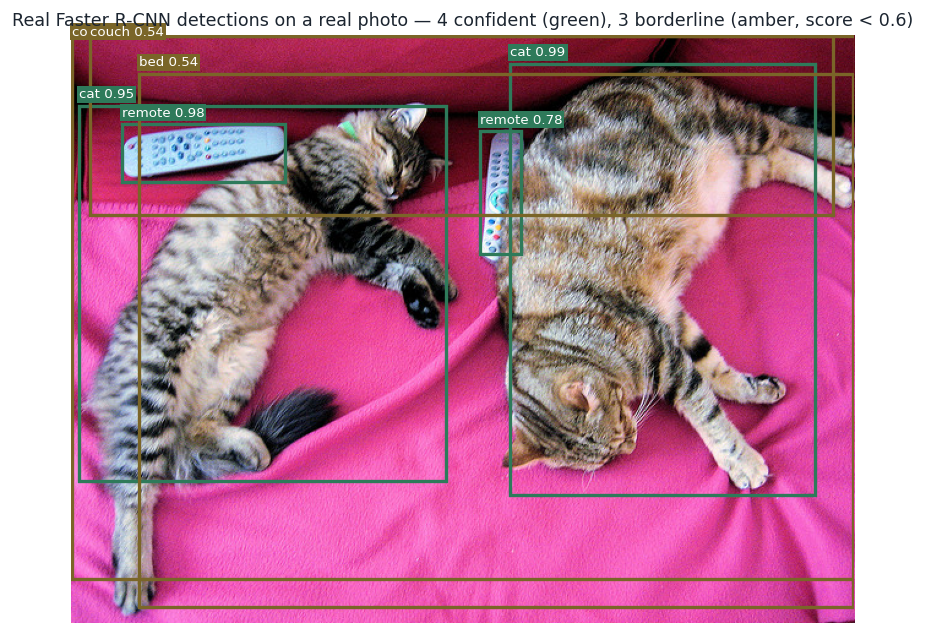
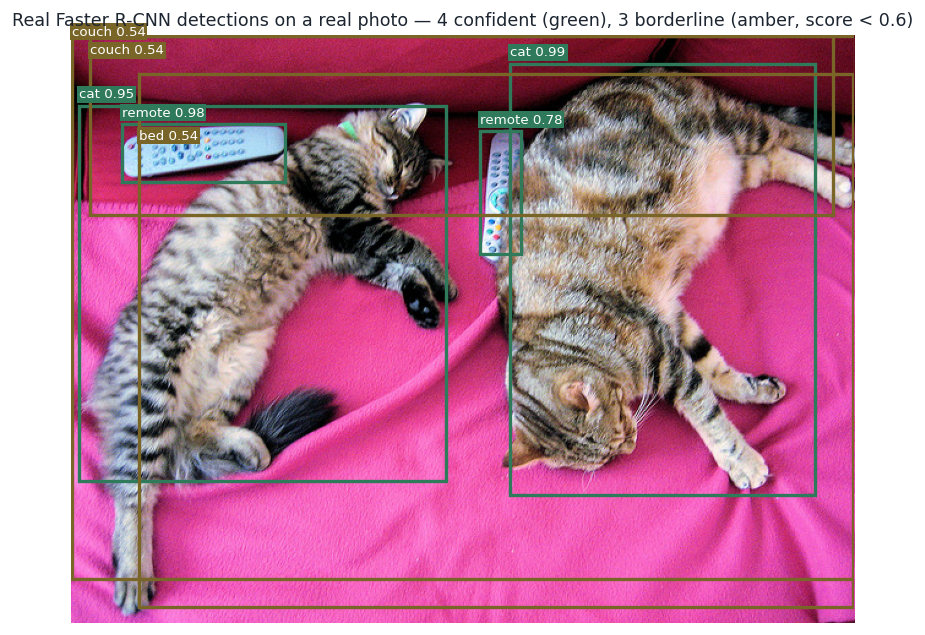
polish(07-cv-detection): add anchor-tiling figure + fix label collision + AP interpolated column + FP wording
Address Judge gate (axis 6 diagrams) + shared reviewer polish:
- FIX 1 (Judge gate): add cv07_anchors.png (make_figures_07.py) — a schematic
  feature-map grid with 9 real anchors (3 scales x 3 aspect ratios) at one cell,
  the best-matching anchor highlighted, and a red arrow annotated with the REAL
  (tx,ty,tw,th)=(0.44,-0.31,-0.04,0.08) from the module's encode_boxes. Embedded
  at the anchors/box-regression section, making the log-space/scale-invariance
  reasoning visual.
- FIX 2: fix cv07_detections.png label collision (two overlapping 'couch 0.54'
  boxes rendered as 'co couch') via a collision-avoiding label placer; numbers
  unchanged.
- FIX 3: correct the FP wording in both spots — '56 of the 58 are false positives
  (the 2 matched cats are the true positives)', consistent with the real TP/FP.
- FIX 4: add the interpolated-precision column to the AP worked-example table so
  the 11/12 = 1/3+1/3+1/4 arithmetic matches _all_point_ap fully in the table.
- FIX 5: clarify the NMS figure uses the score>=0.30 subset (44 cat boxes) while
  the AP/PR uses score>=0.05 (58 cat boxes).

Notebook and module byte-unchanged (anchor figure is generator-only; no
re-execution needed). ruff clean on module + notebook + both generators.

Changed region(s): [[0.0908, 0.0299, 0.2422, 0.1197], [0.1514, 0.1795, 0.2119, 0.2394]]

diff --git a/07. Computer Vision/tools/make_figures_07.py b/07. Computer Vision/tools/make_figures_07.py
@@ -39,7 +39,14 @@ import matplotlib.patches as mpatches  # noqa: E402
 import matplotlib.pyplot as plt  # noqa: E402
 import numpy as np  # noqa: E402
 
-from object_detection import box_iou_from_scratch, nms_from_scratch, run_experiment  # noqa: E402
+from object_detection import (  # noqa: E402
+    box_iou_from_scratch,
+    cxcywh_to_xyxy,
+    encode_boxes,
+    nms_from_scratch,
+    run_experiment,
+    xyxy_to_cxcywh,
+)
 
 # ---- Palette (matches the chapter's muted Mermaid classDefs) ------------------------------------
 BLUE = "#3A6B96"  # data / values
@@ -95,11 +102,22 @@ def fig_detections(exp) -> None:
     fig, ax = plt.subplots(figsize=(7.2, 5.4))
     ax.imshow(exp.image.array)
     ax.axis("off")
-    # colour high-confidence detections green, borderline (<0.6) amber -> the honest near-misses
+    # colour high-confidence detections green, borderline (<0.6) amber -> the honest near-misses.
+    # Boxes that share a top edge (e.g. the two overlapping couch boxes) would stack their labels;
+    # nudge each new label down until it clears the labels already placed near the same x.
     order = det.scores.argsort()[::-1]
+    placed: list[tuple[float, float]] = []  # (x, y) of labels already drawn
     for k in order:
         color = GREEN if det.scores[k] >= 0.6 else AMBER
-        _draw_box(ax, det.boxes[k], color, f"{det.names[k]} {det.scores[k]:.2f}")
+        box = det.boxes[k]
+        x0, y0 = float(box[0]), float(box[1])
+        label_y = max(y0 - 4, 2.0)
+        while any(abs(x0 - px) < 90 and abs(label_y - py) < 14 for px, py in placed):
+            label_y += 15.0
+        placed.append((x0, label_y))
+        ax.add_patch(mpatches.Rectangle((x0, y0), box[2] - x0, box[3] - y0, fill=False, edgecolor=color, linewidth=2.0))
+        ax.text(x0, label_y, f"{det.names[k]} {det.scores[k]:.2f}", fontsize=8, color="white", va="bottom",
+                bbox={"boxstyle": "square,pad=0.15", "fc": color, "ec": "none"})
     n_hi = int((det.scores >= 0.6).sum())
     n_lo = int((det.scores < 0.6).sum())
     ax.set_title(
@@ -246,12 +264,78 @@ def fig_iou(exp) -> None:
     _save(fig, f"{IMG_PREFIX}iou.png")
 
 
+# ================================================================================================
+# Figure: anchors + box regression — the spatial picture behind (tx, ty, tw, th)
+# ================================================================================================
+
+
+def fig_anchors() -> None:
+    """Schematic feature-map grid with a real anchor set and a real (tx, ty, tw, th) regression.
+
+    The geometry is schematic (a diagram, not a measured claim), but the anchor boxes and the printed
+    (tx, ty, tw, th) correction are computed with the module's own ``encode_boxes`` on the drawn coordinates,
+    so the arrow is the *actual* regression that lands the best anchor on the object, not a hand-drawn guess.
+    """
+    canvas_w, canvas_h, cell = 600, 400, 100
+    center_x, center_y = 300.0, 200.0  # the chosen feature-map cell's center
+
+    # 3 scales x 3 aspect ratios, all centered at the cell (the standard anchor set)
+    scales = [40.0, 70.0, 110.0]
+    aspects = [0.5, 1.0, 2.0]
+    anchors_cxcywh = np.array(
+        [[center_x, center_y, s * np.sqrt(a), s / np.sqrt(a)] for s in scales for a in aspects]
+    )
+    anchors = cxcywh_to_xyxy(anchors_cxcywh)
+
+    gt = cxcywh_to_xyxy(np.array([[368.0, 176.0, 150.0, 84.0]]))  # a target object box
+    best = int(box_iou_from_scratch(anchors, gt)[:, 0].argmax())  # the anchor the matcher assigns
+    tx, ty, tw, th = (float(v) for v in encode_boxes(gt, anchors[best : best + 1])[0])
+
+    fig, ax = plt.subplots(figsize=(7.8, 5.4))
+    ax.set_xlim(0, canvas_w)
+    ax.set_ylim(canvas_h, 0)  # image-style y-down
+    ax.set_aspect("equal")
+    ax.axis("off")
+
+    for x in range(0, canvas_w + 1, cell):
+        ax.plot([x, x], [0, canvas_h], color=GRID, linewidth=1.0)
+    for y in range(0, canvas_h + 1, cell):
+        ax.plot([0, canvas_w], [y, y], color=GRID, linewidth=1.0)
+
+    for i, bx in enumerate(anchors):
+        is_best = i == best
+        ax.add_patch(mpatches.Rectangle(
+            (bx[0], bx[1]), bx[2] - bx[0], bx[3] - bx[1], fill=False,
+            edgecolor=AMBER if is_best else SLATE, linewidth=2.4 if is_best else 1.0,
+            alpha=1.0 if is_best else 0.45, linestyle="--" if is_best else "-",
+        ))
+    ax.scatter([center_x], [center_y], color=INK, s=20, zorder=5)
+
+    _draw_box(ax, gt[0], GREEN, "ground-truth object", lw=2.6)
+    gcx, gcy = xyxy_to_cxcywh(gt)[0, :2]
+    ax.annotate("", xy=(gcx, gcy), xytext=(center_x, center_y),
+                arrowprops={"arrowstyle": "->", "color": RED, "lw": 2.2})
+    ax.text(210, center_y + 55,
+            f"regression\n$t=({tx:.2f}, {ty:.2f}, {tw:.2f}, {th:.2f})$",
+            fontsize=9.5, color=RED, ha="right", va="center")
+    ax.text(8, 384,
+            "9 anchors (3 scales × 3 aspect ratios) tiled at one cell.  The head picks the best-matching "
+            "anchor (amber, dashed)\nand predicts $t=(t_x,t_y,t_w,t_h)$ to nudge it onto the object — centers "
+            "in anchor-size units, sizes in log-space.",
+            fontsize=8.5, color=INK, va="bottom")
+    ax.set_title("Anchors + box regression: predict a box as a correction to a reference box",
+                 fontsize=11, color=INK)
+    fig.tight_layout()
+    _save(fig, f"{IMG_PREFIX}anchors.png")
+
+
 def main() -> None:
     exp = run_experiment()
     fig_detections(exp)
     fig_nms(exp)
     fig_pr_curve(exp)
     fig_iou(exp)
+    fig_anchors()
     # cross-check that the IoU matrix helper is the one the figures rely on (guards silent drift)
     assert box_iou_from_scratch(exp.iou_pair_boxes[:1], exp.iou_pair_boxes[1:2])[0, 0] >= 0.0
     print("all figures written to", OUT_DIR)

diff --git a/07. Computer Vision/07-Object-Detection/07-Object-Detection.md b/07. Computer Vision/07-Object-Detection/07-Object-Detection.md
@@ -157,6 +157,8 @@ $$
 
 where $(a_x, a_y, a_w, a_h)$ and $(g_x, g_y, g_w, g_h)$ are the anchor and ground-truth boxes in **cxcywh** form. Read the design off the formula. The **center offsets** $t_x, t_y$ are measured *in units of the anchor's size*, so the same target works for a big anchor and a small one — scale-invariant. The **sizes** $t_w, t_h$ are predicted in **log-space**, so the head outputs an unbounded real number that maps to a strictly positive width/height ($w = a_w e^{t_w}$) — a box can never collapse to negative size, and "double the width" and "halve the width" are symmetric $\pm\log 2$ targets. Encoding a ground-truth box to $(t_x,t_y,t_w,t_h)$ and decoding it back recovers the box exactly; the code asserts the round-trip to $10^{-14}$. This regression target — a small, well-conditioned correction to a nearby reference box — is *far* easier to learn than absolute pixel coordinates, and it is why anchors exist.
 
+![Anchors and box regression, made spatial. Nine anchors — 3 scales × 3 aspect ratios — are tiled at a single feature-map cell (grey), giving the detector a rack of reference boxes to correct rather than coordinates to invent. The matcher assigns the best-overlapping anchor (amber, dashed) to the object (green), and the regression head predicts a correction $t = (t_x, t_y, t_w, t_h)$ — the red arrow — that nudges that anchor's center and size onto the ground-truth box. The correction shown, $t = (0.44, -0.31, -0.04, 0.08)$, is the *actual* value the module's `encode_boxes` returns for this anchor/object pair, not a hand-drawn guess: the small centre shift (in anchor-size units) and near-zero log-space size deltas say "this anchor is already about the right size and shape — just move it a little."](../images/cv07_anchors.png)
+
 > **Source / derivation:** learned region proposals via a Region Proposal Network over anchors, and the $(t_x, t_y, t_w, t_h)$ box parametrization, are Ren, He, Girshick & Sun, *Faster R-CNN: Towards Real-Time Object Detection with Region Proposal Networks* (2015), building on Girshick, Donahue, Darrell & Malik, *Rich feature hierarchies (R-CNN)* (2014) and Girshick, *Fast R-CNN* (2015). Both in the [references](07-Object-Detection.references.md).
 
 ### Average Precision: scoring the ranked list
@@ -174,17 +176,17 @@ Plotting precision against recall as you descend the ranked list traces the **PR
 
 A worked example makes the arithmetic concrete and pins the implementation. Take **3 ground-truth objects** and **5 detections** whose IoU-matching, ranked by score, gives the sequence **TP, TP, FP, TP, FP**:
 
-| rank | match | cumulative TP | cumulative FP | precision | recall |
-|---|---|---|---|---|---|
-| 1 | TP | 1 | 0 | 1/1 = 1.00 | 1/3 = 0.33 |
-| 2 | TP | 2 | 0 | 2/2 = 1.00 | 2/3 = 0.67 |
-| 3 | FP | 2 | 1 | 2/3 = 0.67 | 0.67 |
-| 4 | TP | 3 | 1 | 3/4 = 0.75 | 3/3 = 1.00 |
-| 5 | FP | 3 | 2 | 3/5 = 0.60 | 1.00 |
+| rank | match | cumulative TP | cumulative FP | precision | recall | interp. precision |
+|---|---|---|---|---|---|---|
+| 1 | TP | 1 | 0 | 1/1 = 1.00 | 1/3 = 0.33 | 1.00 |
+| 2 | TP | 2 | 0 | 2/2 = 1.00 | 2/3 = 0.67 | 1.00 |
+| 3 | FP | 2 | 1 | 2/3 = 0.67 | 0.67 | 1.00 |
+| 4 | TP | 3 | 1 | 3/4 = 0.75 | 3/3 = 1.00 | 0.75 |
+| 5 | FP | 3 | 2 | 3/5 = 0.60 | 1.00 | 0.75 |
 
-With interpolation, the area is $\tfrac{1}{3}(1.0) + \tfrac{1}{3}(1.0) + \tfrac{1}{3}(0.75) = \tfrac{1}{3} + \tfrac{1}{3} + \tfrac{1}{4} = \tfrac{11}{12} \approx 0.9167$. Our from-scratch AP reproduces **exactly 11/12** on this case — a hard `assert` pins it, so a bug in the matching or the integration *raises* rather than shipping a wrong number.
+The **interpolated precision** column is what `_all_point_ap` actually integrates: each raw precision is replaced by the *maximum* precision at any recall $\ge$ this one (the monotone envelope), which is why rank 3's raw 0.67 is lifted to 1.00 and ranks 4–5 sit at 0.75. Summing that envelope over the three distinct recall levels (0.33, 0.67, 1.00), each a step of width $\tfrac{1}{3}$, gives the area $\tfrac{1}{3}(1.0) + \tfrac{1}{3}(1.0) + \tfrac{1}{3}(0.75) = \tfrac{1}{3} + \tfrac{1}{3} + \tfrac{1}{4} = \tfrac{11}{12} \approx 0.9167$. Our from-scratch AP reproduces **exactly 11/12** on this case — a hard `assert` pins it, so a bug in the matching or the integration *raises* rather than shipping a wrong number.
 
-![Average Precision as the area under the precision-recall curve. Left: the worked example (TP,TP,FP,TP,FP) — the raw staircase (slate) and the interpolated envelope whose shaded area is AP = 0.917 = 11/12. Right: the same real cat detections scored two ways — before NMS (red), the 58 duplicate boxes each become a false positive and precision collapses, giving AP = 0.67; after NMS (green), 6 clean detections give AP = 1.00. NMS raises AP by removing duplicate false positives.](../images/cv07_pr_curve.png)
+![Average Precision as the area under the precision-recall curve. Left: the worked example (TP,TP,FP,TP,FP) — the raw staircase (slate) and the interpolated envelope whose shaded area is AP = 0.917 = 11/12. Right: the same real cat detections scored two ways — before NMS (red), 56 of the 58 boxes are false positives (only the 2 boxes matching the two cats are true positives), so precision collapses and AP = 0.67; after NMS (green), 6 clean detections give AP = 1.00. NMS raises AP by removing duplicate false positives.](../images/cv07_pr_curve.png)
 
 Two AP quantities you must distinguish:
 
@@ -217,9 +219,9 @@ Everything above is executable. The companion module — **[object_detection.py]
 
 **The real detector on a real image.** On the COCO photo (640×480), Faster R-CNN returns **7 detections at score ≥ 0.5**: `cat 0.989`, `remote 0.979`, `cat 0.953`, `remote 0.781`, and three borderline `couch 0.541`, `couch 0.540`, `bed 0.538`. The two cats and two remotes are found with high confidence; the couch/bed are the honest low-confidence hedges a score threshold trims.
 
-**NMS, verified on the real boxes.** With the detector's own NMS disabled, the `cat` class produces **44 overlapping boxes**; from-scratch greedy NMS at IoU 0.5 keeps **2**, with kept indices *identical* to `torchvision.ops.nms` (asserted).
+**NMS, verified on the real boxes.** With the detector's own NMS disabled, the `cat` class produces **44 overlapping boxes** (taking the score ≥ 0.30 subset for a legible figure); from-scratch greedy NMS at IoU 0.5 keeps **2**, with kept indices *identical* to `torchvision.ops.nms` (asserted).
 
-**AP, pinned and then measured.** The from-scratch AP reproduces the worked example **exactly (11/12 = 0.9167)**. On the real `cat` detections, scoring the *same* boxes before vs after NMS shows why NMS matters for the score: **pre-NMS 58 detections → AP@0.5 = 0.6667**, **post-NMS 6 detections → AP@0.5 = 1.0000** — NMS lifts AP by **+0.333** by deleting duplicate false positives. Per class, AP@0.5 is `cat 1.00`, `remote 1.00` → **mAP@0.5 = 1.00**, while the stricter **COCO mAP@[.5:.95] = 0.975**. The top cat detection's IoU with its ground-truth box is **0.980**.
+**AP, pinned and then measured.** The from-scratch AP reproduces the worked example **exactly (11/12 = 0.9167)**. On the real `cat` detections, scoring the *same* boxes before vs after NMS shows why NMS matters for the score. Here AP uses the fuller score ≥ 0.05 set (**58** cat boxes — a lower threshold than the NMS figure's 44 so the precision-recall curve extends to low confidence): **pre-NMS 58 detections → AP@0.5 = 0.6667** (56 of the 58 are false positives — only the 2 boxes matching the two cats are true positives — so precision collapses), **post-NMS 6 detections → AP@0.5 = 1.0000** — NMS lifts AP by **+0.333** by deleting those duplicate false positives. Per class, AP@0.5 is `cat 1.00`, `remote 1.00` → **mAP@0.5 = 1.00**, while the stricter **COCO mAP@[.5:.95] = 0.975**. The top cat detection's IoU with its ground-truth box is **0.980**.
 
 ### Reading the module's report
 
